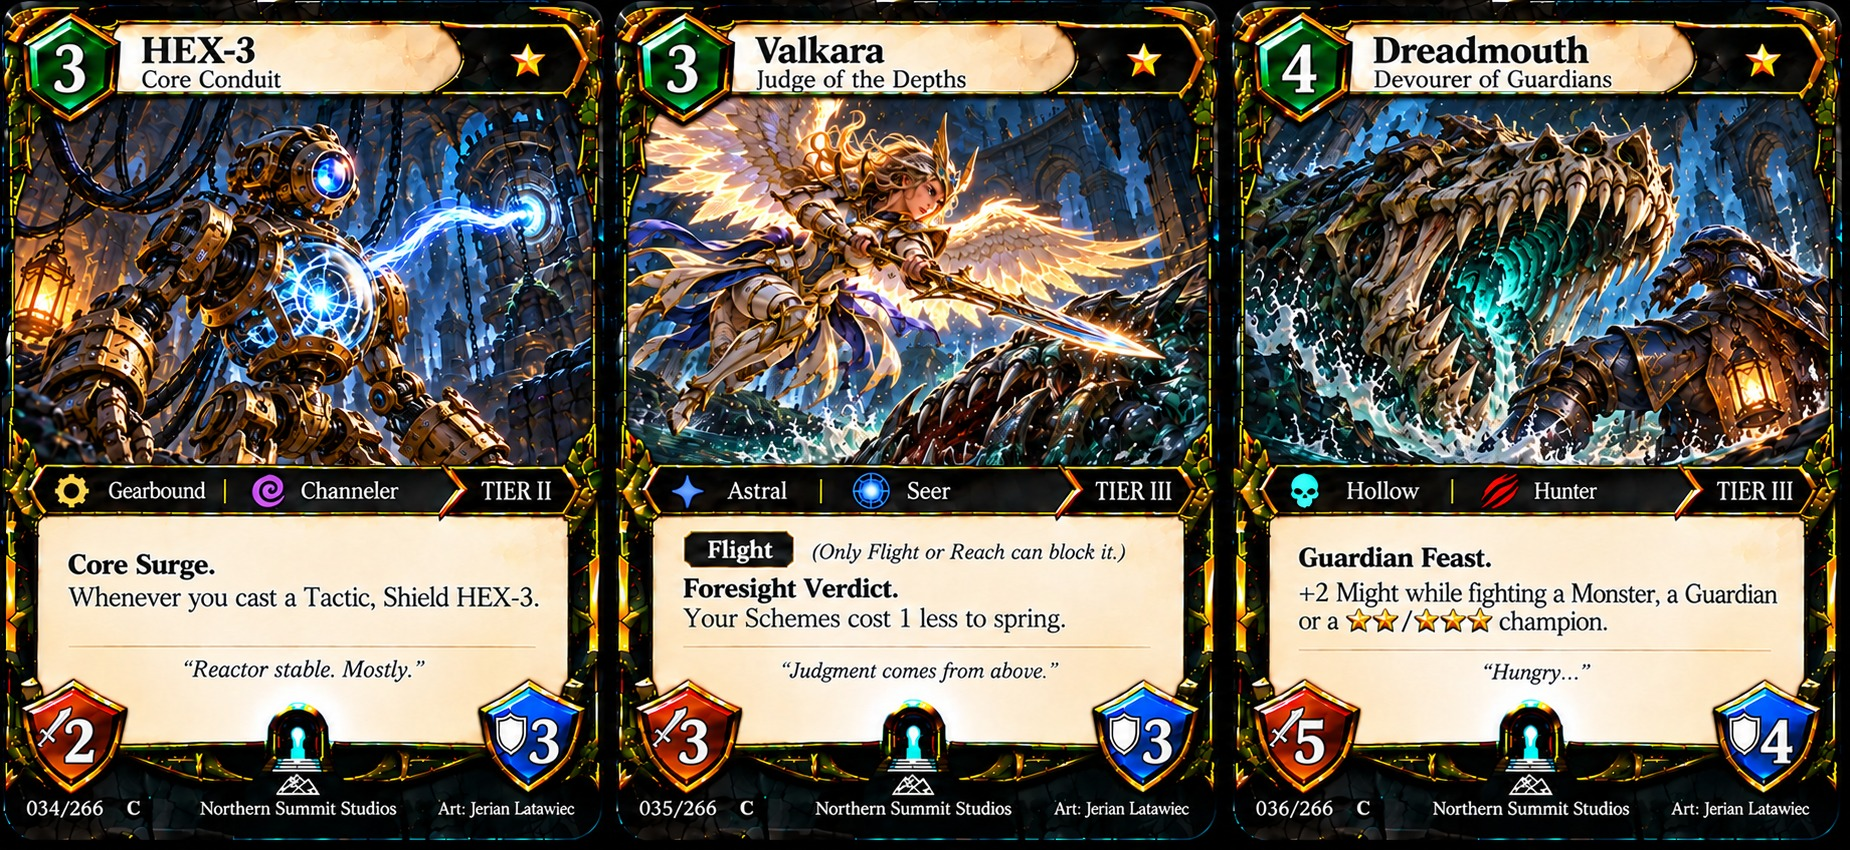
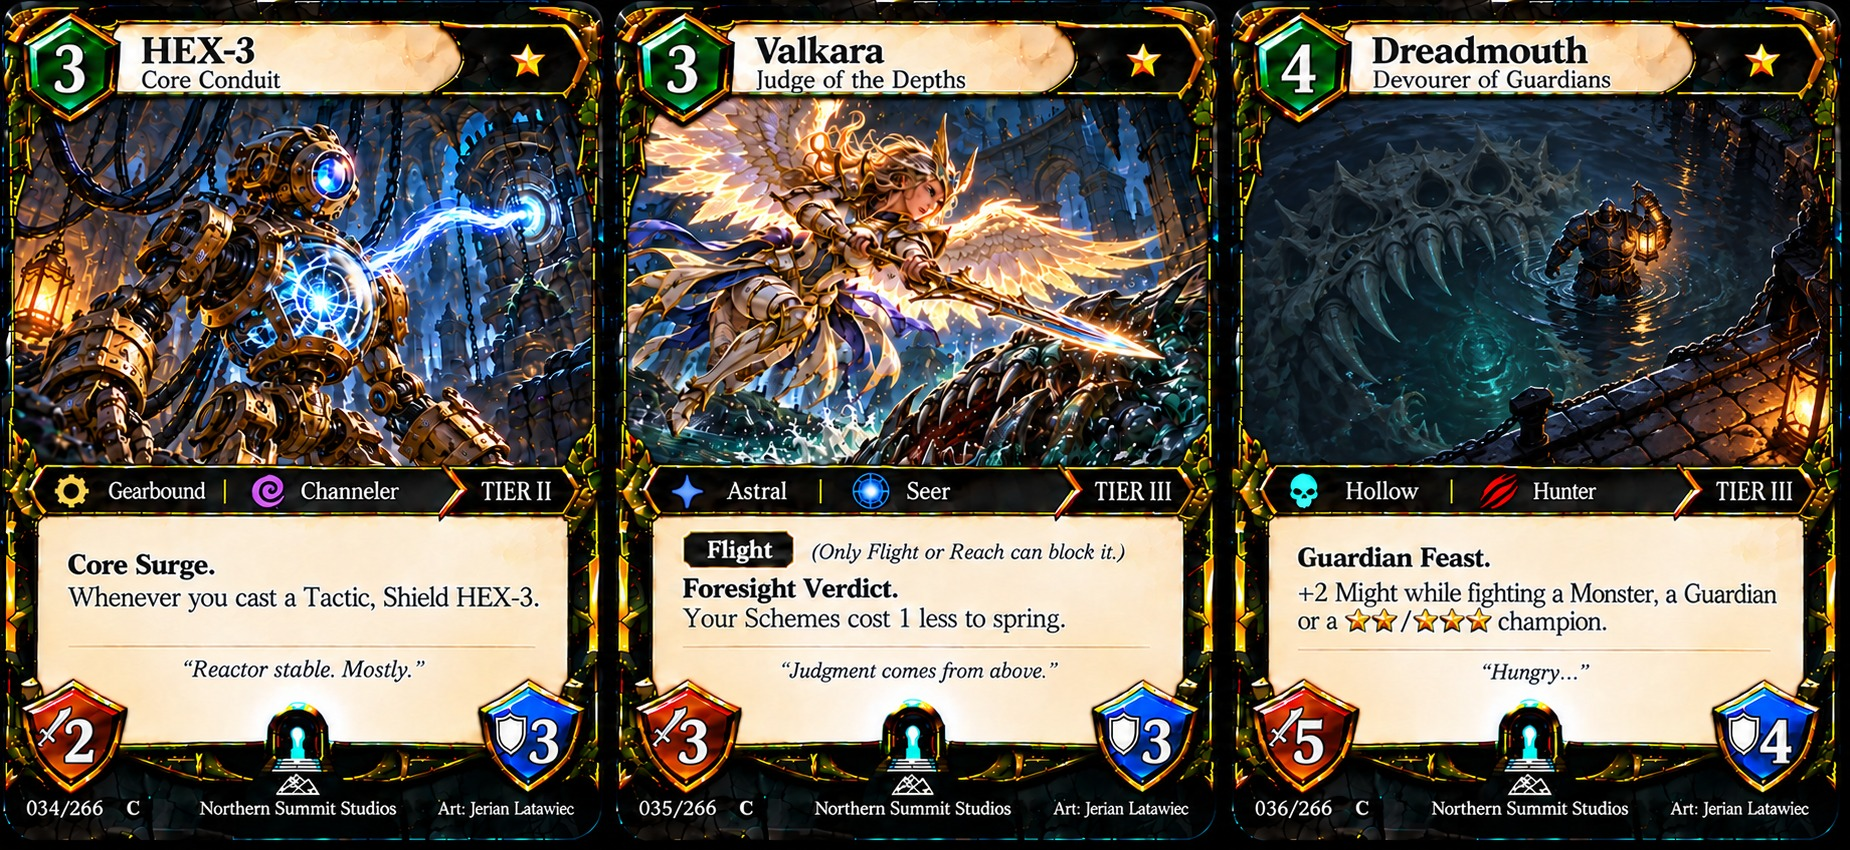
art(set2): 036 Dreadmouth fixed and approved; Spark, Orion, Maeve scenes (PROPOSED)

diff --git a/src/v02/content/set2.ts b/src/v02/content/set2.ts
@@ -289,6 +289,21 @@ const SCENES: Record<string, [string, string, string]> = {
     'side view in a flooded vault: Dreadmouth drags a thrashing Guardian down beneath the dark water, only its gaping jaw and the Guardian reaching arm breaking the surface, ripples catching amber torchlight',
     'heroic wide shot of a vast sunken hall: Dreadmouth rising from the lake larger than the hall pillars, jaw opened wide enough to swallow a Guardian whole as torches gutter and tiny delvers flee along the walkways; terrifying and unstoppable',
   ],
+  spark: [
+    'over-the-shoulder view from behind Professor Spark crouched inside the open belly of a half-built turret in a cramped underground workshop, wrench in one hand, sparks spraying from a crackling relic he is wiring in; his goggles glow orange in the dark, cables everywhere',
+    'low angle in a flooded workshop: Spark rides on top of his finished clanking turret as it wades forward, steering it with a lever while it fires a relic-charged bolt down the tunnel, his wild hair lit by the blast',
+    'heroic wide shot of a vast cavern foundry: Spark on a gantry at centre-left conducting a whole army of relic turrets with a glowing wrench like a baton, every barrel firing in a storm of light while tiny engineers cheer below',
+  ],
+  orion: [
+    'low angle inside a narrow flooded tunnel lit only by his own glowing arrow: Orion wades thigh-deep, crescent longbow lowered, holding a single star-arrow up like a torch to read faint star maps carved into the tunnel ceiling (no open sky, no rocks against stars)',
+    'side view across a dark underground chasm: Orion braced against a stalactite, drawing a star-arrow whose light reveals a hidden Guardian clinging to the far wall, his cloak streaming in the updraft',
+    'heroic low angle in a vast cavern: Orion fires straight up and the arrow bursts into a ceiling of new constellations across the cave roof, lighting the whole underworld silver-blue while he stands on a broken bridge below',
+  ],
+  maeve: [
+    'eye-level view in a crowded, lantern-lit underground black market: Maeve in a hooded cloak of moss leans over a merchant stall, palming a real glowing relic while sliding a fake one carved from living wood into its place; the merchant looks away',
+    'high angle on a rope bridge over a fungus-lit cavern: Maeve escapes with a sack of stolen relics as living roots from her staff tangle the guards chasing her, green witch-light flaring',
+    'heroic wide shot of a hidden thieves hall grown from roots: Maeve on a throne of living wood surrounded by stolen relics, every root in the cavern reaching out to snatch more treasure toward her; sly and overwhelming',
+  ],
   nyx: [
     'top-down view onto a Guardian’s treasure hoard: Nyx tiptoes between the coins and gems toward a glowing relic, the sleeping Guardian’s huge claw in the corner of the frame; cool shadow, warm gold glint',
     'fast diagonal motion shot: Nyx mid-leap from treasure pile to pillar with the relic in hand, coins spraying into the air, the Guardian’s eye just opening behind her',

diff --git a/prototype-v0.2/MASTER_CARD_LIST_SET2.md b/prototype-v0.2/MASTER_CARD_LIST_SET2.md
@@ -260,27 +260,27 @@ Rules version 0.2-paper-1. Generated from the game's card data and Crownfall com
 
 | No. | Form | Cost | Might / Guard | Rules text | Flavour | Art brief | Status |
 | --- | --- | --- | --- | --- | --- | --- | --- |
-| S2-037 | ★ | 3 | 2 / 3 | *Prototype* · Arrival: Attach a Relic costing 2 or less from your hand to Professor Spark for free. | "Excessive voltage? Never!" | SET 2 ART: the same character, recognisable at a glance. Appearance (keep it): A wild-haired engineer with a wrench and a tool-pack. NEW pose and action, never the Set 1 pose or composition: fixing a crackling relic onto a half-built turret, goggles down, tongue out in concentration. Same pose idea at ★ scale. Show the class through the action; no extra costume props. Darker underground lighting. | Starter deck: Vault Delvers |
-| S2-122 | ★★ | ↑1 | 5 / 6 | *Prototype* · Your Relics cost 1 less. Ascend: Summon an Arc Turret. | "It works! Mostly!" | SET 2 ART: the same character, recognisable at a glance. Appearance (keep it): A mechanical arm grows from the pack; goggles spark. NEW pose and action, never the Set 1 pose or composition: fixing a crackling relic onto a half-built turret, goggles down, tongue out in concentration. Same pose idea, bigger and more powerful at ★★. Show the class through the action; no extra costume props. Darker underground lighting. | Draft |
-| S2-192 | ★★★ | ↑2 | 8 / 9 | **Bulwark** · *Prototype* · Your Relics cost 1 less. Ascend: Summon two Arc Turrets. · ♛2 | "Science, applied loudly!" | SET 2 ART: the same character, recognisable at a glance. Appearance (keep it): He sits in a walking workshop that builds turrets on the fly. NEW pose and action, never the Set 1 pose or composition: fixing a crackling relic onto a half-built turret, goggles down, tongue out in concentration. Same pose idea at full ★★★ power: dramatic scale, the action filling the scene. Show the class through the action; no extra costume props. Darker underground lighting. | Draft |
+| S2-037 | ★ | 3 | 2 / 3 | *Prototype* · Arrival: Attach a Relic costing 2 or less from your hand to Professor Spark for free. | "Excessive voltage? Never!" | SET 2 ART. Keep this look, recognisable at a glance: A wild-haired engineer with a wrench and a tool-pack. SCENE: over-the-shoulder view from behind Professor Spark crouched inside the open belly of a half-built turret in a cramped underground workshop, wrench in one hand, sparks spraying from a crackling relic he is wiring in; his goggles glow orange in the dark, cables everywhere. Style: cinematic painted illustration, like a still from an animated film. Off-centre composition with strong diagonals; never centred facing the camera and never the Set 1 composition. Cool slate-blue and teal shadows with one warm amber light source; natural colours, real dust and grit. No generic glowing energy, lightning or floating rocks unless the scene calls for that character’s own power. No added costume props. The ★★★ card is the glorious hero moment: the champion large and spectacular in frame at full power, the shot a player imagines when it lands. | Starter deck: Vault Delvers |
+| S2-122 | ★★ | ↑1 | 5 / 6 | *Prototype* · Your Relics cost 1 less. Ascend: Summon an Arc Turret. | "It works! Mostly!" | SET 2 ART. Keep this look, recognisable at a glance: A mechanical arm grows from the pack; goggles spark. SCENE: low angle in a flooded workshop: Spark rides on top of his finished clanking turret as it wades forward, steering it with a lever while it fires a relic-charged bolt down the tunnel, his wild hair lit by the blast. Style: cinematic painted illustration, like a still from an animated film. Off-centre composition with strong diagonals; never centred facing the camera and never the Set 1 composition. Cool slate-blue and teal shadows with one warm amber light source; natural colours, real dust and grit. No generic glowing energy, lightning or floating rocks unless the scene calls for that character’s own power. No added costume props. The ★★★ card is the glorious hero moment: the champion large and spectacular in frame at full power, the shot a player imagines when it lands. | Draft |
+| S2-192 | ★★★ | ↑2 | 8 / 9 | **Bulwark** · *Prototype* · Your Relics cost 1 less. Ascend: Summon two Arc Turrets. · ♛2 | "Science, applied loudly!" | SET 2 ART. Keep this look, recognisable at a glance: He sits in a walking workshop that builds turrets on the fly. SCENE: heroic wide shot of a vast cavern foundry: Spark on a gantry at centre-left conducting a whole army of relic turrets with a glowing wrench like a baton, every barrel firing in a storm of light while tiny engineers cheer below. Style: cinematic painted illustration, like a still from an animated film. Off-centre composition with strong diagonals; never centred facing the camera and never the Set 1 composition. Cool slate-blue and teal shadows with one warm amber light source; natural colours, real dust and grit. No generic glowing energy, lightning or floating rocks unless the scene calls for that character’s own power. No added costume props. The ★★★ card is the glorious hero moment: the champion large and spectacular in frame at full power, the shot a player imagines when it lands. | Draft |
 
 ### Orion, Star-Charter of the Deep (PROPOSED epithet)
 *Tier III · Common · Astral · Sharpshooter*
 
 | No. | Form | Cost | Might / Guard | Rules text | Flavour | Art brief | Status |
 | --- | --- | --- | --- | --- | --- | --- | --- |
-| S2-038 | ★ | 3 | 4 / 2 | **Reach** · *Charted Shot* · Attack: Scorch 1 a rival champion. | "I have a star with your name." | SET 2 ART: the same character, recognisable at a glance. Appearance (keep it): A star-powered sniper with a crescent longbow. NEW pose and action, never the Set 1 pose or composition: standing on a cavern ledge under painted constellations, loosing an arrow at a distant target in the dark. Same pose idea at ★ scale. Show the class through the action; no extra costume props. Darker underground lighting. | Draft |
-| S2-123 | ★★ | ↑1 | 7 / 5 | **Reach** · *Charted Shot* · Attack: Scorch 1 a rival champion. Scorch 2 each rival champion with Flight. | "The stars have marked you." | SET 2 ART: the same character, recognisable at a glance. Appearance (keep it): Constellations glow across his armour; his bow draws starlight. NEW pose and action, never the Set 1 pose or composition: standing on a cavern ledge under painted constellations, loosing an arrow at a distant target in the dark. Same pose idea, bigger and more powerful at ★★. Show the class through the action; no extra costume props. Darker underground lighting. | Draft |
-| S2-193 | ★★★ | ↑2 | 10 / 8 | **Reach, Flight** · *Charted Shot* · Ascend: Scorch 2 each rival champion. Attack: Scorch 1 a rival champion. Scorch 3 each rival champion with Flight. · ♛2 | "No dark is deep enough to hide from the sky." | SET 2 ART: the same character, recognisable at a glance. Appearance (keep it): A hunter of gods: his arrows are comets. NEW pose and action, never the Set 1 pose or composition: standing on a cavern ledge under painted constellations, loosing an arrow at a distant target in the dark. Same pose idea at full ★★★ power: dramatic scale, the action filling the scene. Show the class through the action; no extra costume props. Darker underground lighting. | Draft |
+| S2-038 | ★ | 3 | 4 / 2 | **Reach** · *Charted Shot* · Attack: Scorch 1 a rival champion. | "I have a star with your name." | SET 2 ART. Keep this look, recognisable at a glance: A star-powered sniper with a crescent longbow. SCENE: low angle inside a narrow flooded tunnel lit only by his own glowing arrow: Orion wades thigh-deep, crescent longbow lowered, holding a single star-arrow up like a torch to read faint star maps carved into the tunnel ceiling (no open sky, no rocks against stars). Style: cinematic painted illustration, like a still from an animated film. Off-centre composition with strong diagonals; never centred facing the camera and never the Set 1 composition. Cool slate-blue and teal shadows with one warm amber light source; natural colours, real dust and grit. No generic glowing energy, lightning or floating rocks unless the scene calls for that character’s own power. No added costume props. The ★★★ card is the glorious hero moment: the champion large and spectacular in frame at full power, the shot a player imagines when it lands. | Draft |
+| S2-123 | ★★ | ↑1 | 7 / 5 | **Reach** · *Charted Shot* · Attack: Scorch 1 a rival champion. Scorch 2 each rival champion with Flight. | "The stars have marked you." | SET 2 ART. Keep this look, recognisable at a glance: Constellations glow across his armour; his bow draws starlight. SCENE: side view across a dark underground chasm: Orion braced against a stalactite, drawing a star-arrow whose light reveals a hidden Guardian clinging to the far wall, his cloak streaming in the updraft. Style: cinematic painted illustration, like a still from an animated film. Off-centre composition with strong diagonals; never centred facing the camera and never the Set 1 composition. Cool slate-blue and teal shadows with one warm amber light source; natural colours, real dust and grit. No generic glowing energy, lightning or floating rocks unless the scene calls for that character’s own power. No added costume props. The ★★★ card is the glorious hero moment: the champion large and spectacular in frame at full power, the shot a player imagines when it lands. | Draft |
+| S2-193 | ★★★ | ↑2 | 10 / 8 | **Reach, Flight** · *Charted Shot* · Ascend: Scorch 2 each rival champion. Attack: Scorch 1 a rival champion. Scorch 3 each rival champion with Flight. · ♛2 | "No dark is deep enough to hide from the sky." | SET 2 ART. Keep this look, recognisable at a glance: A hunter of gods: his arrows are comets. SCENE: heroic low angle in a vast cavern: Orion fires straight up and the arrow bursts into a ceiling of new constellations across the cave roof, lighting the whole underworld silver-blue while he stands on a broken bridge below. Style: cinematic painted illustration, like a still from an animated film. Off-centre composition with strong diagonals; never centred facing the camera and never the Set 1 composition. Cool slate-blue and teal shadows with one warm amber light source; natural colours, real dust and grit. No generic glowing energy, lightning or floating rocks unless the scene calls for that character’s own power. No added costume props. The ★★★ card is the glorious hero moment: the champion large and spectacular in frame at full power, the shot a player imagines when it lands. | Draft |
 
 ### Maeve, Broker of Relics (PROPOSED epithet)
 *Tier III · Common · Verdant · Hexbound · Rogue*
 
 | No. | Form | Cost | Might / Guard | Rules text | Flavour | Art brief | Status |
 | --- | --- | --- | --- | --- | --- | --- | --- |
-| S2-039 | ★ | 3 | 2 / 4 | *Sleight of Thorns* · Arrival: Take a Relic from a rival champion and attach it to Maeve. If you can’t, Scorch 1 a rival champion. | "Every gift has a price." | SET 2 ART: the same character, recognisable at a glance. Appearance (keep it): An ancient forest witch with a staff of living wood. NEW pose and action, never the Set 1 pose or composition: in a hidden underground market, swapping a fake relic for a real one behind her back with a sly smile. Same pose idea at ★ scale. Show the class through the action; no extra costume props. Darker underground lighting. | Draft |
-| S2-124 | ★★ | ↑1 | 5 / 7 | *Sleight of Thorns* · Ascend: Your rival discards a card at random. Draw a card. | "A fair trade. For me." | SET 2 ART: the same character, recognisable at a glance. Appearance (keep it): Antlers of bone and branch; her shadow is a tree. NEW pose and action, never the Set 1 pose or composition: in a hidden underground market, swapping a fake relic for a real one behind her back with a sly smile. Same pose idea, bigger and more powerful at ★★. Show the class through the action; no extra costume props. Darker underground lighting. | Draft |
-| S2-194 | ★★★ | ↑2 | 8 / 10 | *Sleight of Thorns* · Ascend: Take a Relic from a rival champion and attach it to Maeve. If you can’t, Scorch 1 a rival champion. Your rival discards a card at random. · ♛2 | "Everything has a price. I set it." | SET 2 ART: the same character, recognisable at a glance. Appearance (keep it): The forest itself leans in to listen: moths of light circle her crown of antlers. NEW pose and action, never the Set 1 pose or composition: in a hidden underground market, swapping a fake relic for a real one behind her back with a sly smile. Same pose idea at full ★★★ power: dramatic scale, the action filling the scene. Show the class through the action; no extra costume props. Darker underground lighting. | Draft |
+| S2-039 | ★ | 3 | 2 / 4 | *Sleight of Thorns* · Arrival: Take a Relic from a rival champion and attach it to Maeve. If you can’t, Scorch 1 a rival champion. | "Every gift has a price." | SET 2 ART. Keep this look, recognisable at a glance: An ancient forest witch with a staff of living wood. SCENE: eye-level view in a crowded, lantern-lit underground black market: Maeve in a hooded cloak of moss leans over a merchant stall, palming a real glowing relic while sliding a fake one carved from living wood into its place; the merchant looks away. Style: cinematic painted illustration, like a still from an animated film. Off-centre composition with strong diagonals; never centred facing the camera and never the Set 1 composition. Cool slate-blue and teal shadows with one warm amber light source; natural colours, real dust and grit. No generic glowing energy, lightning or floating rocks unless the scene calls for that character’s own power. No added costume props. The ★★★ card is the glorious hero moment: the champion large and spectacular in frame at full power, the shot a player imagines when it lands. | Draft |
+| S2-124 | ★★ | ↑1 | 5 / 7 | *Sleight of Thorns* · Ascend: Your rival discards a card at random. Draw a card. | "A fair trade. For me." | SET 2 ART. Keep this look, recognisable at a glance: Antlers of bone and branch; her shadow is a tree. SCENE: high angle on a rope bridge over a fungus-lit cavern: Maeve escapes with a sack of stolen relics as living roots from her staff tangle the guards chasing her, green witch-light flaring. Style: cinematic painted illustration, like a still from an animated film. Off-centre composition with strong diagonals; never centred facing the camera and never the Set 1 composition. Cool slate-blue and teal shadows with one warm amber light source; natural colours, real dust and grit. No generic glowing energy, lightning or floating rocks unless the scene calls for that character’s own power. No added costume props. The ★★★ card is the glorious hero moment: the champion large and spectacular in frame at full power, the shot a player imagines when it lands. | Draft |
+| S2-194 | ★★★ | ↑2 | 8 / 10 | *Sleight of Thorns* · Ascend: Take a Relic from a rival champion and attach it to Maeve. If you can’t, Scorch 1 a rival champion. Your rival discards a card at random. · ♛2 | "Everything has a price. I set it." | SET 2 ART. Keep this look, recognisable at a glance: The forest itself leans in to listen: moths of light circle her crown of antlers. SCENE: heroic wide shot of a hidden thieves hall grown from roots: Maeve on a throne of living wood surrounded by stolen relics, every root in the cavern reaching out to snatch more treasure toward her; sly and overwhelming. Style: cinematic painted illustration, like a still from an animated film. Off-centre composition with strong diagonals; never centred facing the camera and never the Set 1 composition. Cool slate-blue and teal shadows with one warm amber light source; natural colours, real dust and grit. No generic glowing energy, lightning or floating rocks unless the scene calls for that character’s own power. No added costume props. The ★★★ card is the glorious hero moment: the champion large and spectacular in frame at full power, the shot a player imagines when it lands. | Draft |
 
 ### Ronin Zero, Blade Beneath the Arena (PROPOSED epithet)
 *Tier III · Common · Voltborn · Gladiator*

diff --git a/prototype-v0.2/card-prompts/set2-in-order/ORDER.md b/prototype-v0.2/card-prompts/set2-in-order/ORDER.md
@@ -15,7 +15,7 @@ Generated by `npm run proto:cardprompts`. Finished card numbers go in DONE.txt a
 | 025, 026, 027 | done | |
 | 028, 029, 030 | done | |
 | 031, 032, 033 | 032 Elara ★ | set2-in-order/sheet-031-033.txt |
-| 034, 035, 036 | 036 Dreadmouth ★ | set2-in-order/sheet-034-036.txt |
+| 034, 035, 036 | done | |
 | 037, 038, 039 | 037 Professor Spark ★ · 038 Orion ★ · 039 Maeve ★ | set2-in-order/sheet-037-039.txt |
 | 040, 041, 042 | 040 Ronin Zero ★ · 041 Ignara ★ · 042 Ignara ★★ | set2-in-order/sheet-040-042.txt |
 | 043, 044, 045 | 043 Knuckle ★ · 044 Astryon ★ · 045 Queen Vespera ★ | set2-in-order/sheet-043-045.txt |
